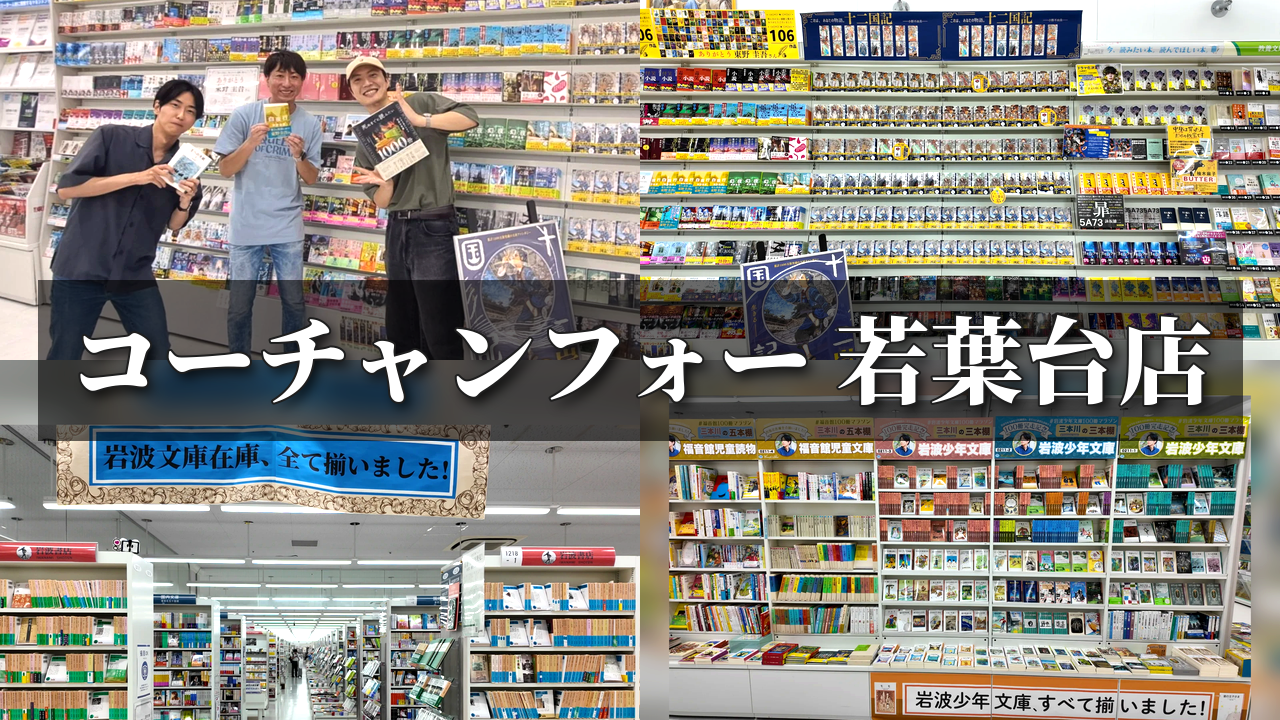
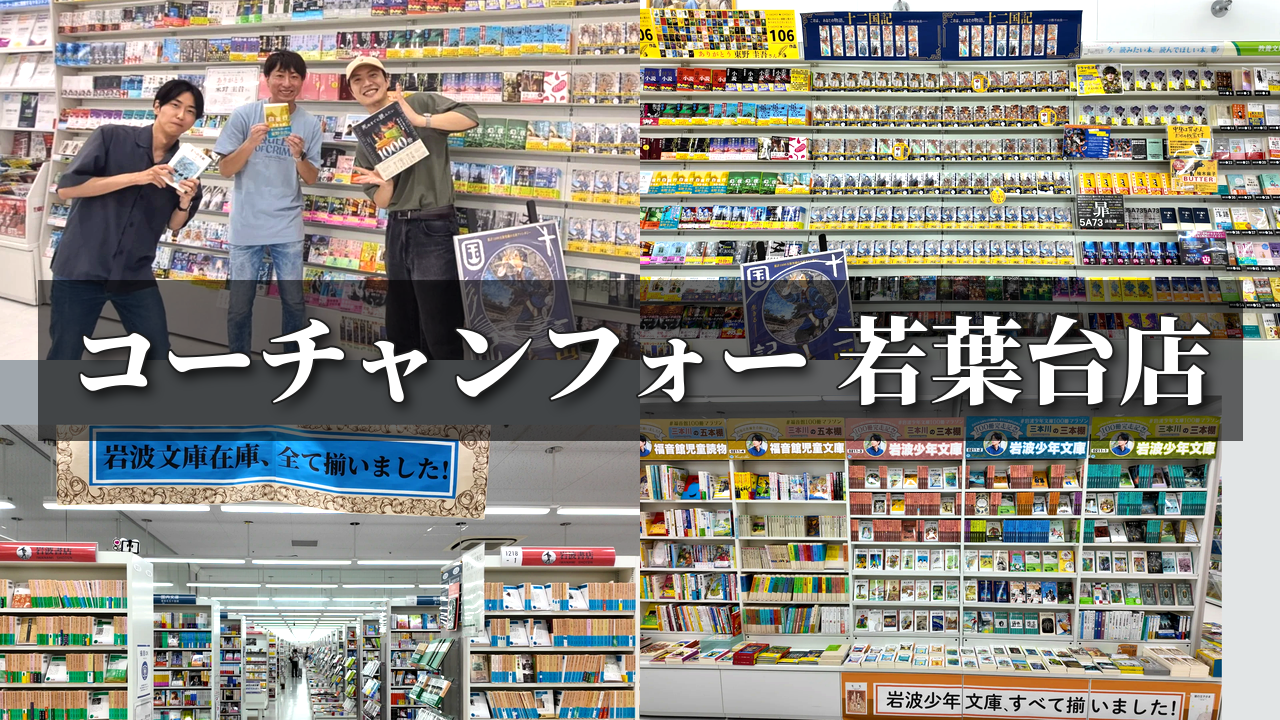
コーチャンフォー：ぼかしをやめ、はみ出し部分は天井色の無地で埋める
Claude-Session: https://claude.ai/code/session_01PgBssd9mgKDSdASv1kBNHd

diff --git a/thumbnail/make_thumbnail.py b/thumbnail/make_thumbnail.py
@@ -9,7 +9,7 @@ config.json の例:
     {"title": "旅と暮らしの本屋 アンダンテ",
      "crops": {"2": [0.12, 0.27, 0.853, 1.0]}}
     crops は写真ごとの切り抜き範囲（元画像に対する割合: 左, 上, 右, 下）。指定なしは中央基準
-    0〜1 の外を指定すると写真を縮めて入れ、はみ出した部分はぼかした写真で埋める
+    0〜1 の外を指定すると写真を縮めて入れ、はみ出した部分は写真の上端の色で埋める
 出力: フォルダ内の thumbnail.png（1280x720）。作り直すたびに上書きする
 """
 import json
@@ -42,13 +42,12 @@ def cover(img: Image.Image, w: int, h: int) -> Image.Image:
 
 
 def crop_with_fill(img: Image.Image, box) -> Image.Image:
-    """割合で切り抜く。範囲が写真の外にはみ出した部分は、ぼかした写真で埋める"""
+    """割合で切り抜く。範囲が写真の外にはみ出した部分は、写真の上端の色（店内なら白い天井色）で埋める"""
     l, t, r, b = (round(v * n) for v, n in zip(box, (img.width, img.height) * 2))
     if l >= 0 and t >= 0 and r <= img.width and b <= img.height:
         return img.crop((l, t, r, b))
-    w, h = r - l, b - t
-    bg = cover(img, w, h).filter(ImageFilter.GaussianBlur(40))
-    bg = ImageEnhance.Brightness(bg).enhance(1.05)
+    top = img.crop((0, 0, img.width, max(1, img.height // 50))).resize((1, 1), Image.BOX)
+    bg = Image.new("RGB", (r - l, b - t), top.getpixel((0, 0)))
     bg.paste(img, (-l, -t))
     return bg
 
